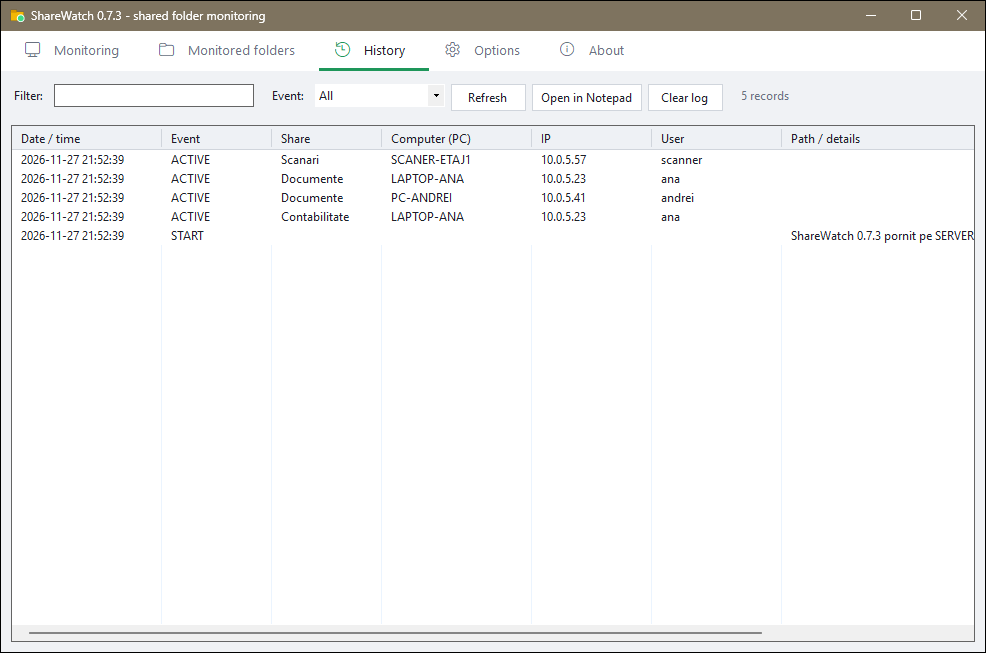
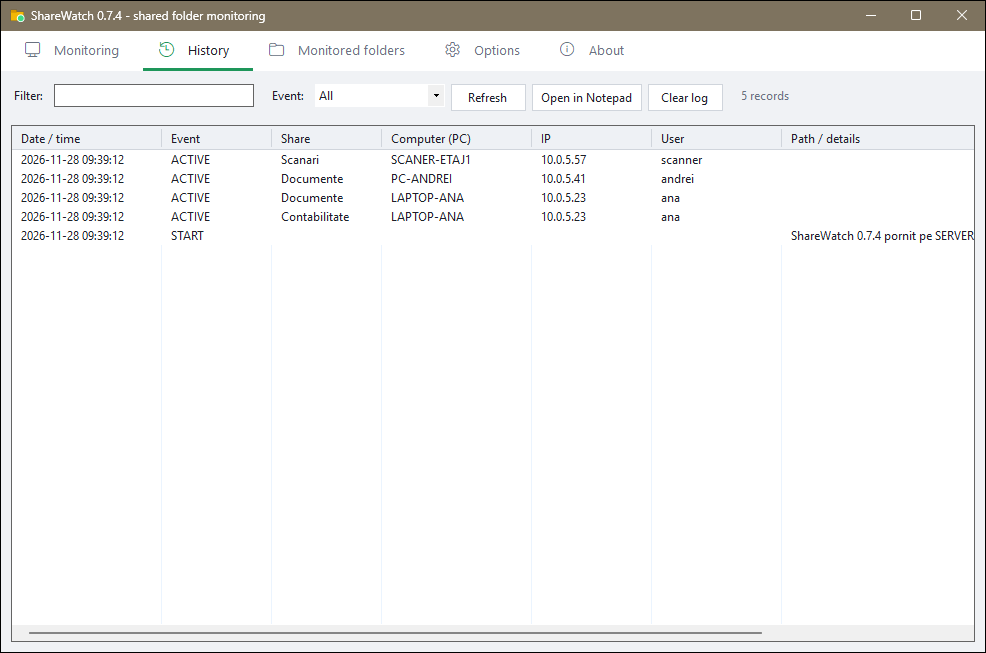
0.7.4: History tab after Monitoring; blocked-computer notification screenshot

diff --git a/source/MainForm.cs b/source/MainForm.cs
@@ -168,6 +168,9 @@ namespace ShareWatch
         ComboBox cbTheme, cbLang;
         bool loadingOpt;
 
+        // ordinea taburilor (trebuie sa corespunda cu names/glyphs din constructor)
+        const int TabMonitor = 0, TabHistory = 1, TabFolders = 2, TabOptions = 3, TabAbout = 4;
+
         public int CurrentTab { get { return current < 0 ? 0 : current; } }
         int S(int v) { return (int)Math.Round(v * sc); }
 
@@ -187,9 +190,9 @@ namespace ShareWatch
             Controls.Add(content);
             Controls.Add(bar);
 
-            string[] names = { "Monitorizare", "Foldere monitorizate", "Istoric", "Opțiuni", "Despre" };
-            // glife Segoe: ecran/monitorizare, folder, istoric, setari, informatii
-            string[] glyphs = { "", "", "", "", "" };
+            string[] names = { "Monitorizare", "Istoric", "Foldere monitorizate", "Opțiuni", "Despre" };
+            // glife Segoe: ecran/monitorizare, istoric, folder, setari, informatii
+            string[] glyphs = { "", "", "", "", "" };
             for (int i = 0; i < names.Length; i++)
             {
                 int idx = i;
@@ -203,11 +206,11 @@ namespace ShareWatch
                 content.Controls.Add(p);
             }
 
-            BuildMonitor(pages[0]);
-            BuildFolders(pages[1]);
-            BuildHistory(pages[2]);
-            BuildOptions(pages[3]);
-            BuildAbout(pages[4]);
+            BuildMonitor(pages[TabMonitor]);
+            BuildHistory(pages[TabHistory]);
+            BuildFolders(pages[TabFolders]);
+            BuildOptions(pages[TabOptions]);
+            BuildAbout(pages[TabAbout]);
 
             ApplyTheme();
             SelectTab(startTab);
@@ -284,8 +287,8 @@ namespace ShareWatch
             Theme.TitleBar(this);
             ResumeLayout(true);
             // listele cu culori proprii pe elemente trebuie reincarcate
-            if (lvShares != null && current == 1) LoadShares();
-            if (lvHist != null && current == 2) LoadHistory();
+            if (lvShares != null && current == TabFolders) LoadShares();
+            if (lvHist != null && current == TabHistory) LoadHistory();
             Invalidate(true);
         }
 
@@ -424,9 +427,9 @@ namespace ShareWatch
 
         void TickRefresh()
         {
-            if (current == 0) UpdateMonitor();
-            else if (current == 2) CheckHistoryChanged();
-            else if (current == 3)
+            if (current == TabMonitor) UpdateMonitor();
+            else if (current == TabHistory) CheckHistoryChanged();
+            else if (current == TabOptions)
             {
                 if (BlockList.Version != blockVersion) LoadBlockList();   // fisierul a fost editat din afara
                 if (lblFirewall.Text != FirewallBlock.Status && FirewallBlock.Status.Length > 0) lblFirewall.Text = FirewallBlock.Status;
@@ -436,10 +439,10 @@ namespace ShareWatch
         void RefreshTab()
         {
             if (!Visible) return;
-            if (current == 0) UpdateMonitor();
-            else if (current == 1) LoadShares();
-            else if (current == 2) LoadHistory();
-            else if (current == 3) LoadOptions();
+            if (current == TabMonitor) UpdateMonitor();
+            else if (current == TabFolders) LoadShares();
+            else if (current == TabHistory) LoadHistory();
+            else if (current == TabOptions) LoadOptions();
         }
 
         // ------------------------------------------------------------ tab Monitorizare

diff --git a/source/Demo.cs b/source/Demo.cs
@@ -1,5 +1,5 @@
 // Doar pentru varianta de test (build.ps1 -Test): date fictive + capturi automate pentru README.
-// ShareWatch-test.exe --screenshots <folder>  -> salveaza cate un PNG pentru fiecare tab si pentru notificare, apoi iese.
+// ShareWatch-test.exe --screenshots <folder>  -> salveaza cate un PNG pentru fiecare tab si pentru notificari (normala si calculator blocat), apoi iese.
 #if TEST
 using System;
 using System.Collections.Generic;
@@ -121,14 +121,16 @@ namespace ShareWatch
 
         public static void Run(Func<MainForm> main, Action quit)
         {
-            string[] names = { "monitor", "folders", "history", "options", "about" };
-            int step = 0;
+            string[] names = { "monitor", "history", "folders", "options", "about" };   // in ordinea taburilor
+            // cateva secunde de pauza la inceput: jurnalul (tabul Istoric, al doilea) trebuie sa aiba deja intrari
+            int step = -3;
             Timer t = new Timer { Interval = 1500 };
             t.Tick += delegate
             {
                 MainForm m = main();
                 int k = step / 2;
-                if (k < names.Length)
+                if (step < 0) { }
+                else if (k < names.Length)
                 {
                     if (step % 2 == 0) { m.TopMost = true; m.SelectTab(k); m.Activate(); }
                     else Capture(m, names[k]);
@@ -137,7 +139,14 @@ namespace ShareWatch
                     Toast.ShowToast("Documente", new Peer("10.0.5.41", "PC-ANDREI"), "andrei", "\\Proiecte\\plan-2027.pdf");
                 else if (step == names.Length * 2 + 1)
                 {
-                    foreach (Form f in Application.OpenForms) if (f is Toast) { Capture(f, "toast"); break; }
+                    foreach (Form f in Application.OpenForms) if (f is Toast) { Capture(f, "toast"); f.Close(); break; }
+                }
+                else if (step == names.Length * 2 + 2)
+                    // notificarea pentru un calculator blocat (deconectat imediat)
+                    Toast.ShowToast("-", new Peer("10.0.5.99", "LAPTOP-VIZITATOR"), "guest", null, true);
+                else if (step == names.Length * 2 + 3)
+                {
+                    foreach (Form f in Application.OpenForms) if (f is Toast) { Capture(f, "toast-blocked"); break; }
                 }
                 else { t.Stop(); quit(); }
                 step++;

diff --git a/source/ShareWatch.cs b/source/ShareWatch.cs
@@ -24,14 +24,14 @@ using System.Windows.Forms;
 // Fara URL in informatiile de versiune: un link aici (Company/Copyright) a declansat detectia
 // Microsoft Defender Trojan:Win32/Wacatac.C!ml pe VirusTotal (0.7.2). Linkul e in Despre.
 [assembly: AssemblyCopyright("by ms74ro & Claude")]
-[assembly: AssemblyVersion("0.7.3.0")]
-[assembly: AssemblyFileVersion("0.7.3.0")]
+[assembly: AssemblyVersion("0.7.4.0")]
+[assembly: AssemblyFileVersion("0.7.4.0")]
 
 namespace ShareWatch
 {
     static class AppInfo
     {
-        public const string Version = "0.7.3";
+        public const string Version = "0.7.4";
         public const string RepoUrl = "https://github.com/ms74ro/ShareWatch";
         // Istoricul versiunilor e in CHANGELOG.md (nu mai e inclus in exe).
         // Cand proiectul ajunge pe GitHub, pune aici adresa fisierului; daca e completata, linkul din Despre o foloseste.

diff --git a/README.ro.md b/README.ro.md
@@ -112,7 +112,7 @@ Capturile din README provin din varianta de test, cu partajări, calculatoare ș
 .\ShareWatch-test.exe --screenshots .\capturi
 ```
 
-Salvează câte un PNG pentru fiecare tab și pentru notificare, apoi se închide.
+Salvează câte un PNG pentru fiecare tab și pentru două notificări (una obișnuită și una pentru un calculator blocat), apoi se închide.
 
 `language/en.json` se generează din textele în engleză integrate. După ce adaugi sau modifici texte, regenerează-l cu varianta de test:
 

diff --git a/README.md b/README.md
@@ -112,7 +112,7 @@ The README screenshots come from the test build with made-up shares, computers a
 .\ShareWatch-test.exe --screenshots .\shots
 ```
 
-It saves one PNG per tab plus the notification, then exits.
+It saves one PNG per tab plus two notifications (a normal one and one for a blocked computer), then exits.
 
 `language/en.json` is generated from the built-in English texts. After adding or changing texts, regenerate it with the test build:
 

diff --git a/CHANGELOG.md b/CHANGELOG.md
@@ -2,6 +2,9 @@
 
 All notable changes to ShareWatch are listed here, newest first.
 
+## 0.7.4
+- The History tab now comes right after Monitoring.
+
 ## 0.7.3
 - The GitHub address is no longer in the executable's Properties → Details. With it there, Microsoft Defender flagged the file as `Trojan:Win32/Wacatac.C!ml` (a false positive from its machine-learning model). The link stays in About.
 
